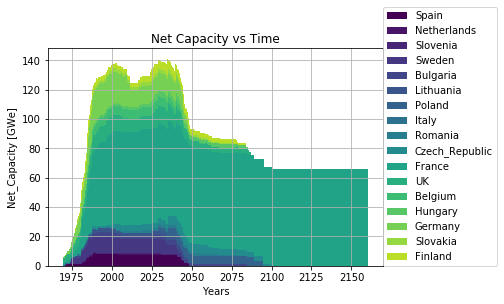
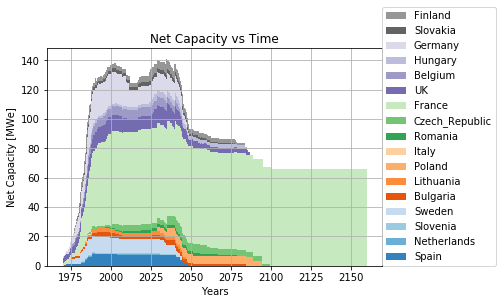
closes #21

diff --git a/methods.tex b/methods.tex
@@ -407,7 +407,8 @@ French La Hague and MELOX sites \cite{schneider_spent_2008, hugelmann_melox_1999
         Production of \gls{ASTRID} fuel begins & 2020 & year\\
         \glspl{SFR} become available & 2040 & year\\
         Reprocessed uranium usage &  Not used anywhere & -\\
-        Minimum \gls{UNF} cooling time  & 36  & months\\
+        Minimum \gls{LWR} \gls{UNF} cooling time & 72 & months \\
+        Minimum \gls{ASTRID} \gls{UNF} cooling time  & 36  & months\\
         Separation efficiency of U and Pu & 99.8 & \% \\
         Reprocessing streams & Pu and U & - \\
         Reprocessing capacity before 2020 & 91.6 \cite{schneider_spent_2008} & $\frac{\text{metric tons of \gls{UNF}}}{month}$  \\
@@ -437,7 +438,12 @@ core (77 assemblies) discharges. Refueling
 is assumed to take two months to complete, during which the reactor
 is shut down. The specifications are defined in table \ref{tab:reactor-specs} 
 which details the reactor specifications in this simulation. \gls{LWR} 
-specifications are modified linearly for varying power capacity.  
+specifications are modified linearly for varying power capacity.
+The \gls{ASTRID} design's target lifetime is 60 tears \cite{gauche_generation_2012}.
+However, we assume \glspl{ASTRID} will have lifetime extensions of 20 years,
+to a total lifetime of 80 years. This assumption is based on the fact that
+most French \glspl{LWR} have lifetime extensions.
+
 
 \begin{table}[h]
     \centering
@@ -459,7 +465,7 @@ specifications are modified linearly for varying power capacity.
         powers are modeled with a linear mass assumption.} & 193  & 764 & -- \\
 
                 Batches per core & 3 & 3 & 4\\
-        Initial Fissile Loading [t] & 3.1  $^{235}$U & 4.2  $^{235}$U & 4.9 Pu \\
+        Initial Fissile Loading [t] & 4.3  $^{235}$U & 5.8  $^{235}$U & 4.9 Pu \\
                 Fuel & \gls{UOX} or \gls{MOX} & \gls{UOX} & \gls{MOX} \\
         \hline
     \end{tabular}
@@ -486,7 +492,7 @@ from ORIGEN is used (see table \ref{tab:comp_fresh}). ORIGEN calculates buildup,
              & \multicolumn{3}{c}{ Composition [\%]} \\
             Recipe & U-235  & U-238  & Pu \\ 
             \hline
-            Fresh \gls{UOX} Fuel & 3.1 & 96.9 & -   \\ 
+            Fresh \gls{UOX} Fuel & 4.29 & 96.9 & -   \\ 
             Fresh \gls{LWR} \gls{MOX} Fuel & 0.2 & 90.7 & 9.1 \\ 
             Fresh \gls{ASTRID} Fuel & 0.3 & 77.7 & 22 \\
             \hline

diff --git a/sensitivity.tex b/sensitivity.tex
@@ -10,6 +10,14 @@ We explored the impact of two key variables, the lifetime of French \glspl{LWR} 
 breeding ratio of \gls{ASTRID} reactors. The range over which we varied these parameters (\cref{tab:sen_par})
 sought to capture the full span of their uncertainty.
 
+Note that the breeding ratios of the \glspl{ASTRID} are arbitrarily increased
+by editing the output fuel composition in the \glspl{ASTRID}. We did not 
+take into account the other reactor parameters (e.g. core size, initial
+fuel composition, fuel residence time, etc.)
+that might change to achieve a higher breeding ratio. More detailed analyses
+of the reactor physics and their effect on this transition scenario are future work.
+
+
 \begin{table}[h]
     \centering
     \caption{Both \gls{LWR} lifetime and \gls{ASTRID} breeding ratio impact 
@@ -26,6 +34,7 @@ sought to capture the full span of their uncertainty.
 \end{table}
 
 \subsection{Breeding Ratio}
+
 
 Increase in the breeding ratio of \gls{ASTRID} reactors
 decreases the monthly \gls{LWR} \gls{UNF} reprocessing demand, as shown in 

diff --git a/results.tex b/results.tex
@@ -107,12 +107,8 @@ can transition into a fully \gls{SFR} fleet without extra construction of
 From Varaine et al. \cite{varaine_pre-conceptual_2012}, a French
 ASTRID-type 600\gls{MWe} \gls{SFR} consumes $1.225$ metric tons of
 plutonium a year, with an initial plutonium loading of $4.9$ metric tons. 
-Thus, the number of \glspl{SFR} that can be loaded with the reprocessed
-plutonium from \gls{UNF} can be estimated to be 200, assuming adequate 
-reprocessing and fabrication capacity as well as abundant depleted uranium 
-supply.
  
-Used \gls{MOX} from an ASTRID reactor is 22\% plutonium
+Used \gls{MOX} from an ASTRID reactor is 23.95\% plutonium
 in this simulation (see \cref{tab:comp_fresh}), whereas fresh \gls{MOX} is 22\% plutonium.
 The plutonium breeding ratio in this simulation is thus assumed to be
 $\approx 1.08$.
